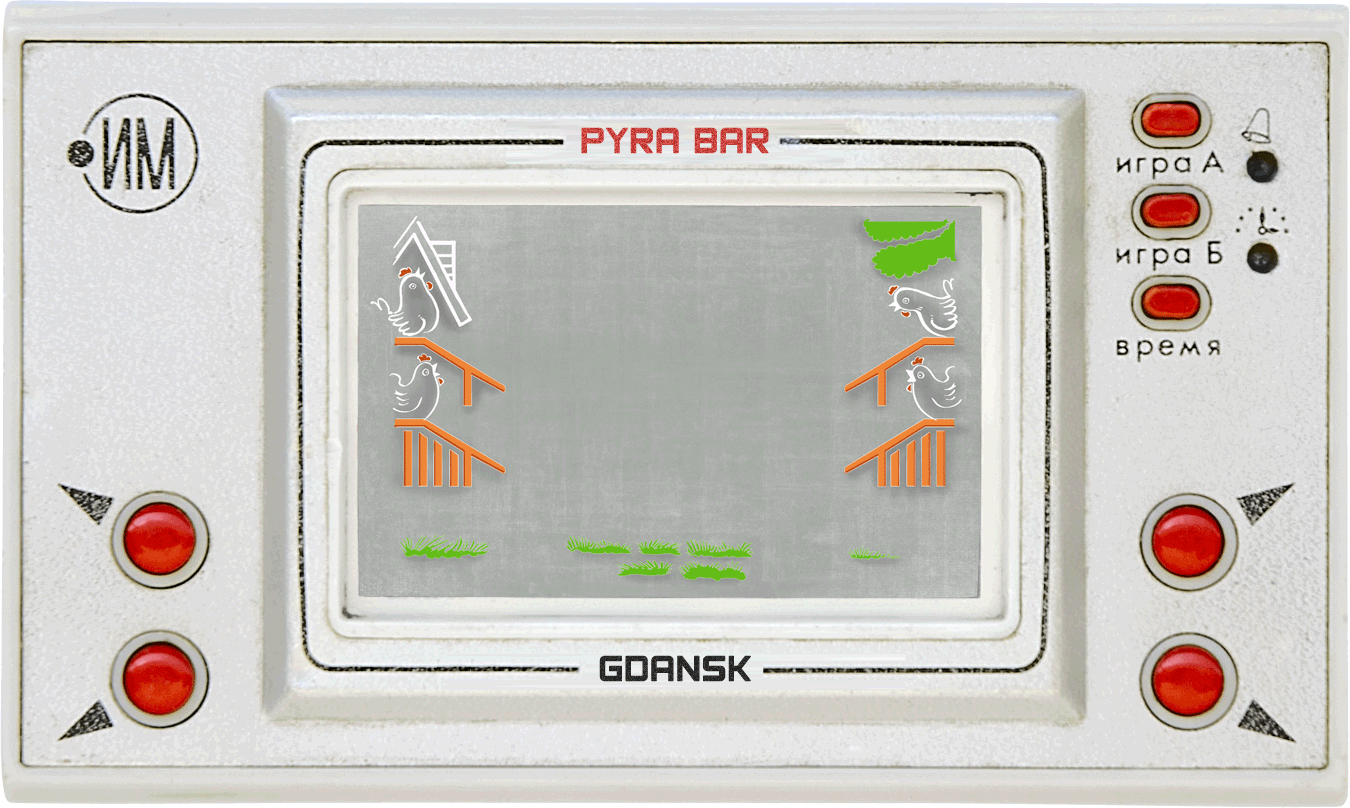
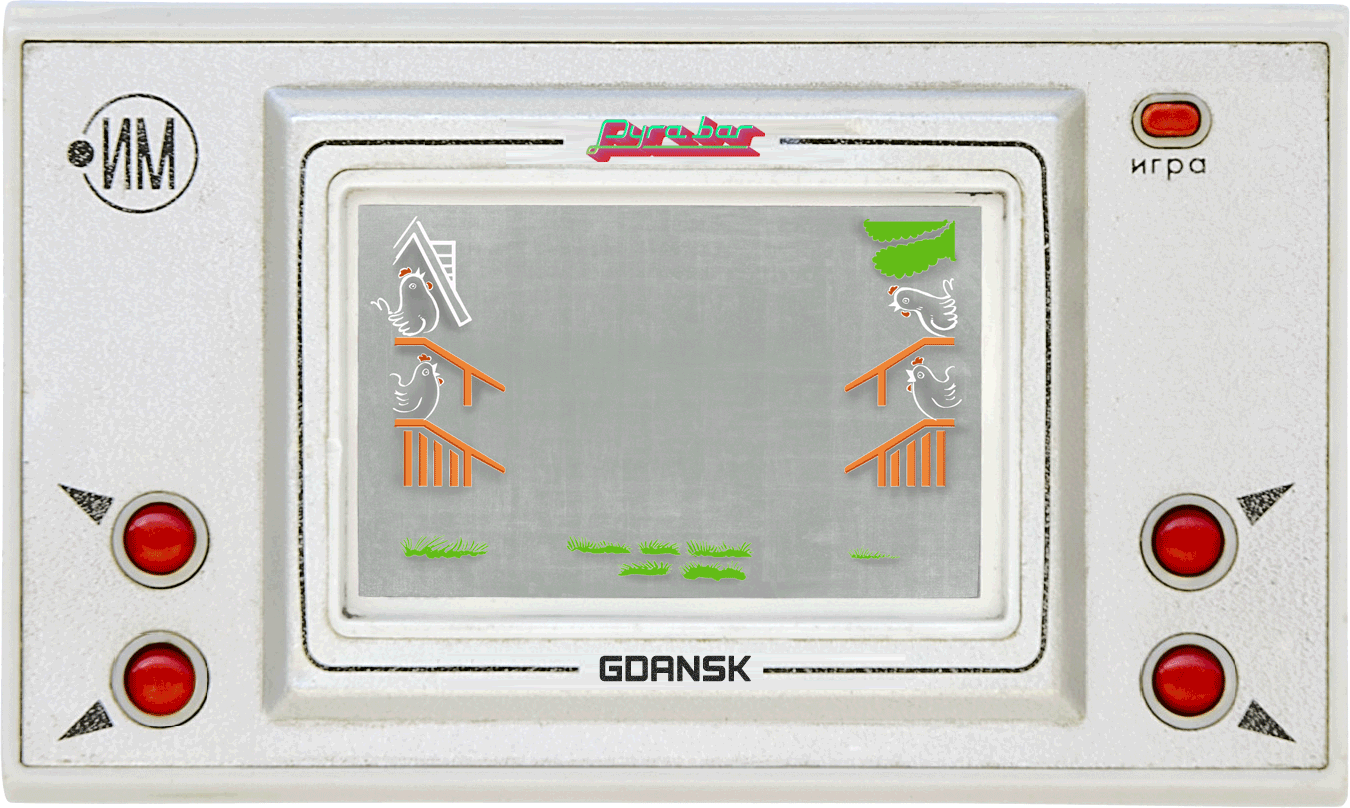
pyrabar game

diff --git a/js/nu-pogodi/states/Game.js b/js/nu-pogodi/states/Game.js
@@ -105,42 +105,44 @@ NuPogodi.GameState.prototype = {
             ['wolf-right', 'wolf-right', 623, 368],
             ['basket-right-up', 'basket-right-up', 764, 365],
             ['basket-right-down', 'basket-right-down', 755, 443],
-            ['egg-left-up-1', 'egg-left-1', 431, 327],
-            ['egg-left-up-2', 'egg-left-2', 447, 343],
-            ['egg-left-up-3', 'egg-left-3', 472, 353],
-            ['egg-left-up-4', 'egg-left-4', 489, 362],
-            ['egg-left-up-5', 'egg-left-5', 503, 381],
-            ['egg-left-down-1', 'egg-left-1', 431, 408],
-            ['egg-left-down-2', 'egg-left-2', 447, 424],
-            ['egg-left-down-3', 'egg-left-3', 472, 434],
-            ['egg-left-down-4', 'egg-left-4', 489, 443],
-            ['egg-left-down-5', 'egg-left-5', 503, 462],
-            ['egg-right-up-1', 'egg-right-1', 676, 248],
-            ['egg-right-up-2', 'egg-right-2', 662, 254],
-            ['egg-right-up-3', 'egg-right-3', 648, 262],
-            ['egg-right-up-4', 'egg-right-4', 630, 273],
-            ['egg-right-up-5', 'egg-right-5', 616, 282],
-            ['egg-right-down-1', 'egg-right-1', 676, 320],
-            ['egg-right-down-2', 'egg-right-2', 663, 332],
-            ['egg-right-down-3', 'egg-right-3', 649, 335],
-            ['egg-right-down-4', 'egg-right-4', 632, 347],
-            ['egg-right-down-5', 'egg-right-5', 618, 357],
-            ['bird-left-1', 'bird-left-1', 328, 426],
-            ['bird-left-2', 'bird-left-2', 320, 392],
-            ['bird-left-3', 'bird-left-3', 304, 414],
-            ['bird-left-4', 'bird-left-4', 280, 414],
-            ['bird-left-5', 'bird-left-5', 252, 414],
-            ['bird-right-1', 'bird-right-1', 552, 420],
-            ['bird-right-2', 'bird-right-2', 618, 394],
-            ['bird-right-3', 'bird-right-3', 648, 410],
-            ['bird-right-4', 'bird-right-4', 666, 414],
-            ['bird-right-5', 'bird-right-5', 698, 414],
-            ['bird-life-1', 'bird-life', 600, 220],
-            ['bird-life-2', 'bird-life', 550, 220],
-            ['bird-life-3', 'bird-life', 500, 220],
-            ['bell-0', 'bell-0', 398, 174],
-            ['bell-1', 'bell-1', 398, 214],
-            ['hare', 'hare', 313, 165]
+            ['egg-left-up-1', 'egg-left-1', 431, 326],
+            ['egg-left-up-2', 'egg-left-2', 447, 341],
+            ['egg-left-up-3', 'egg-left-3', 471, 349],
+            ['egg-left-up-4', 'egg-left-4', 489, 361],
+            ['egg-left-up-5', 'egg-left-5', 503, 380],
+            ['egg-left-down-1', 'egg-left-1', 431, 407],
+            ['egg-left-down-2', 'egg-left-2', 447, 422],
+            ['egg-left-down-3', 'egg-left-3', 471, 430],
+            ['egg-left-down-4', 'egg-left-4', 489, 442],
+            ['egg-left-down-5', 'egg-left-5', 503, 461],
+            ['egg-right-up-1', 'egg-right-1', 901, 323],
+            ['egg-right-up-2', 'egg-right-2', 884, 339],
+            ['egg-right-up-3', 'egg-right-3', 864, 348],
+            ['egg-right-up-4', 'egg-right-4', 842, 359],
+            ['egg-right-up-5', 'egg-right-5', 827, 378],
+            ['egg-right-down-1', 'egg-right-1', 901, 405],
+            ['egg-right-down-2', 'egg-right-2', 884, 421],
+            ['egg-right-down-3', 'egg-right-3', 864, 430],
+            ['egg-right-down-4', 'egg-right-4', 842, 441],
+            ['egg-right-down-5', 'egg-right-5', 827, 460],
+            //['bird-left-1', 'bird-left-1', 328, 426],
+            ['bird-left-1', 'bird-left-1', -40+558, 526],
+            ['bird-left-2', 'bird-left-2', -40+558-8, 526-34], // -8, -34
+            ['bird-left-3', 'bird-left-3', -40+558-8-16, 526-34+22], // -16, +22
+            ['bird-left-4', 'bird-left-4', -40+558-8-16-24, 526-34+22], // -24, 0
+            ['bird-left-5', 'bird-left-5', -40+558-8-16-24-28, 526-34+22], // -28, 0
+            //['bird-right-1', 'bird-right-1', 552, 420],
+            ['bird-right-1', 'bird-right-1', 827, 500],
+            ['bird-right-2', 'bird-right-2', 827+10, 500+26], // -66 26
+            ['bird-right-3', 'bird-right-3', 827+10+30, 500+16], // 30  16
+            ['bird-right-4', 'bird-right-4', 827+10+30+20, 500+16], // 20 0
+            ['bird-right-5', 'bird-right-5', 827+10+30+20+30, 500+16], // 30 0
+            ['bird-life-1', 'bird-life', 692, 313],
+            ['bird-life-2', 'bird-life', 692+40, 313],
+            ['bird-life-3', 'bird-life', 692+80, 313],
+            ['bell-0', 'bell-0', 540, 235],
+            ['bell-1', 'bell-1', 537, 268],
+            ['hare', 'hare', 459, 209]
         ];
 
         // adding all sprites using in game
@@ -175,7 +177,7 @@ NuPogodi.GameState.prototype = {
         }
 
         // adding text showing actual score
-        this.score.savedText = this.game.add.text(600, 180, "0", {
+        this.score.savedText = this.game.add.text(670, 240, "0", {
             font: "36px lets_go_digitalregular",
             fill: "#000000",
             align: "right"
@@ -194,16 +196,64 @@ NuPogodi.GameState.prototype = {
         up.onDown.add(this.wolf.moveBasketUp, this.wolf);
         down.onDown.add(this.wolf.moveBasketDown, this.wolf);
 
-        this.game.add.button(115, 634, 'button-left-down', this.actionButtonLeftDown, this);
-        this.game.add.button(120, 497, 'button-left-up', this.actionButtonLeftUp, this);
-        this.game.add.button(1141, 633, 'button-right-down', this.actionButtonRightDown, this);
-        this.game.add.button(1140, 490, 'button-right-up', this.actionButtonRightUp, this);
+        var btn_ld = this.game.add.button(115, 634, 'button-left-down', this.actionButtonLeftDown, this, 0, 0, 1);
+        var btn_lu = this.game.add.button(120, 497, 'button-left-up', this.actionButtonLeftUp, this, 0, 0, 1);
+        var btn_rd = this.game.add.button(1141, 633, 'button-right-down', this.actionButtonRightDown, this, 0, 0, 1);
+        var btn_ru = this.game.add.button(1140, 490, 'button-right-up', this.actionButtonRightUp, this, 0, 0, 1);
 
         // setting timers for begin the game
         this.newEggTimer = this.game.time.now + 1000;
         this.eggMoveTimer = this.game.time.now + 1300;
         this.animationsTimer = this.game.time.now + 2500;
         this.hareShowTimer = this.game.time.now + 5000;
+
+        left.onDown.add(function() {
+            if (this.basketPosition) {
+              btn_lu.setFrames(1,1,1);
+            } else {
+              btn_ld.setFrames(1,1,1);
+            }
+        },this.wolf)
+        left.onUp.add(function() {
+          btn_lu.setFrames(0, 0, 1);
+          btn_ld.setFrames(0, 0, 1);
+        })
+
+      right.onDown.add(function() {
+        if (this.basketPosition) {
+          btn_ru.setFrames(1,1,1);
+        } else {
+          btn_rd.setFrames(1,1,1);
+        }
+      },this.wolf)
+      right.onUp.add(function() {
+        btn_ru.setFrames(0, 0, 1);
+        btn_rd.setFrames(0, 0, 1);
+      })
+
+      up.onDown.add(function() {
+        if (this.wolfPosition) {
+          btn_ru.setFrames(1,1,1);
+        } else {
+          btn_lu.setFrames(1,1,1);
+        }
+      },this.wolf)
+      up.onUp.add(function() {
+        btn_ru.setFrames(0, 0, 1);
+        btn_lu.setFrames(0, 0, 1);
+      })
+
+      down.onDown.add(function() {
+        if (this.wolfPosition) {
+          btn_rd.setFrames(1,1,1);
+        } else {
+          btn_ld.setFrames(1,1,1);
+        }
+      },this.wolf)
+      down.onUp.add(function() {
+        btn_rd.setFrames(0, 0, 1);
+        btn_ld.setFrames(0, 0, 1);
+      })
 
     },
     /**

diff --git a/js/nu-pogodi/states/Preload.js b/js/nu-pogodi/states/Preload.js
@@ -25,13 +25,6 @@ NuPogodi.PreloadState.prototype = {
      * @see Phaser.State.preload
      */
     preload: function() {
-        // showing name and logo
-        this.game.add.sprite(this.game.world.centerX - 150, 200, 'logo-nerd');
-        this.game.add.text(this.game.world.centerX + 30, 200, "Nu Pogodi", {
-            font: "30px lets_go_digitalregular",
-            fill: "#000000",
-            align: "right"
-        });
 
         // adding sprites for loader bar
         this.game.add.sprite(this.game.world.centerX - 101,
@@ -94,6 +87,16 @@ NuPogodi.PreloadState.prototype = {
           'basket-left-down',
           'basket-right-up',
           'basket-right-down',
+          'egg-left-1',
+          'egg-left-2',
+          'egg-left-3',
+          'egg-left-4',
+          'egg-left-5',
+          'egg-right-1',
+          'egg-right-2',
+          'egg-right-3',
+          'egg-right-4',
+          'egg-right-5',
         ]
 
         // loading images using array of names
@@ -106,8 +109,13 @@ NuPogodi.PreloadState.prototype = {
 
         // spritesheet with blinking bird
         this.game.load.spritesheet('bird-life',
-                './assets/sprites/bird-life.svg',
-                27, 24);
+                './assets/sprites/bird-life.png',
+                39, 36);
+
+      this.game.load.spritesheet('button-left-down', './assets/sprites/button-left-down.png', 92, 92);
+      this.game.load.spritesheet('button-left-up', './assets/sprites/button-left-up.png', 81, 83);
+      this.game.load.spritesheet('button-right-down', './assets/sprites/button-right-down.png', 94, 94);
+      this.game.load.spritesheet('button-right-up', './assets/sprites/button-right-up.png', 98, 104);
 
         // array has audio files name without path and extension
         var audioData = [

diff --git a/js/nu-pogodi/states/Menu.js b/js/nu-pogodi/states/Menu.js
@@ -39,19 +39,6 @@ NuPogodi.MenuState.prototype = {
             );
         }
 
-        //adding NerdLab logo and NuPogodi name
-        this.game.add.sprite(this.game.world.centerX - 150, 200, 'logo-nerd');
-        this.game.add.text(
-                this.game.world.centerX + 30,
-                200,
-                "Nu Pogodi",
-                {
-                    font: "30px lets_go_digitalregular",
-                    fill: "#000000",
-                    align: "right"
-                }
-        );
-
         // adding beginGame function for space and enter
         var enter = this.game.input.keyboard.addKey(Phaser.Keyboard.ENTER);
         enter.onDown.add(this.beginGame, this);
@@ -63,10 +50,10 @@ NuPogodi.MenuState.prototype = {
                 this.game.world.centerY - 55,
                 'start',
                 this.beginGame, this);
-        this.game.add.button(115, 634, 'button-left-down', this.beginGame, this);
-        this.game.add.button(120, 497, 'button-left-up', this.beginGame, this);
-        this.game.add.button(1141, 633, 'button-right-down', this.beginGame, this);
-        this.game.add.button(1140, 490, 'button-right-up', this.beginGame, this);
+        this.game.add.button(115, 634, 'button-left-down', this.beginGame, this, 0, 0, 1);
+        this.game.add.button(120, 497, 'button-left-up', this.beginGame, this, 0, 0, 1);
+        this.game.add.button(1141, 633, 'button-right-down', this.beginGame, this, 0, 0, 1);
+        this.game.add.button(1140, 490, 'button-right-up', this.beginGame, this, 0, 0, 1);
 
 
     },

diff --git a/js/nu-pogodi/states/Boot.js b/js/nu-pogodi/states/Boot.js
@@ -20,9 +20,8 @@ NuPogodi.BootState = function() {
 NuPogodi.BootState.prototype = {
     preload: function() {
         // loading assets for PreloadState
-        this.game.load.image('loader-empty', './assets/sprites/loader-empty.svg');
-        this.game.load.image('loader-full', './assets/sprites/loader-full.svg');
-        this.game.load.image('logo-nerd', './assets/sprites/logo-nerd.svg');
+        this.game.load.image('loader-empty', './assets/sprites/loader-empty.png');
+        this.game.load.image('loader-full', './assets/sprites/loader-full.png');
     },
     create: function() {    
         // set scalling mode and resize game
